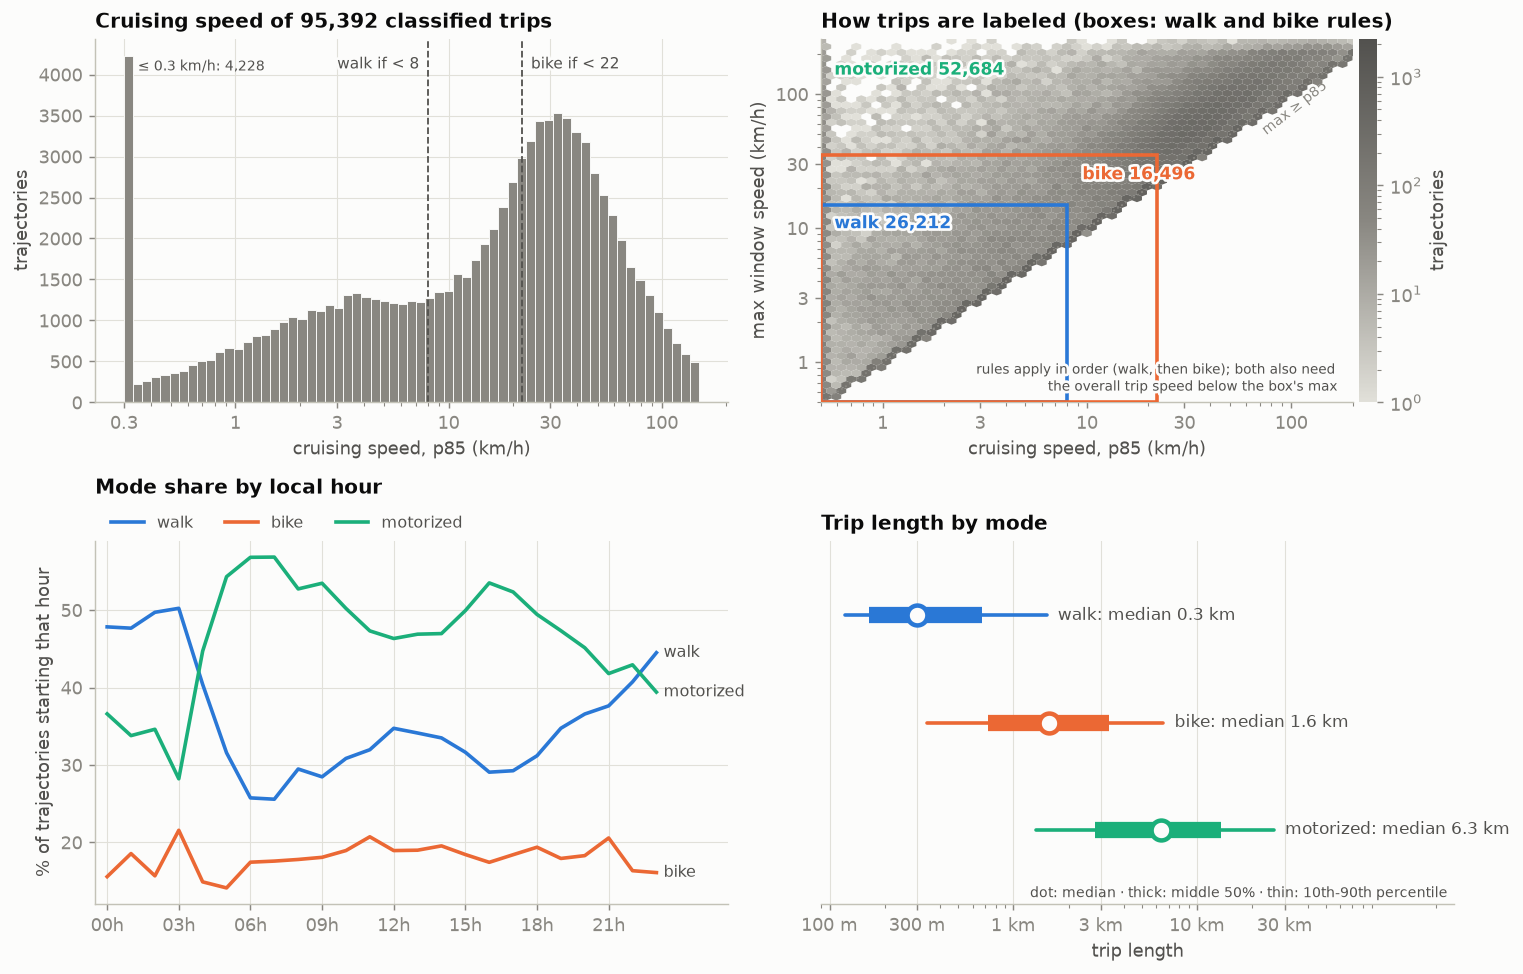
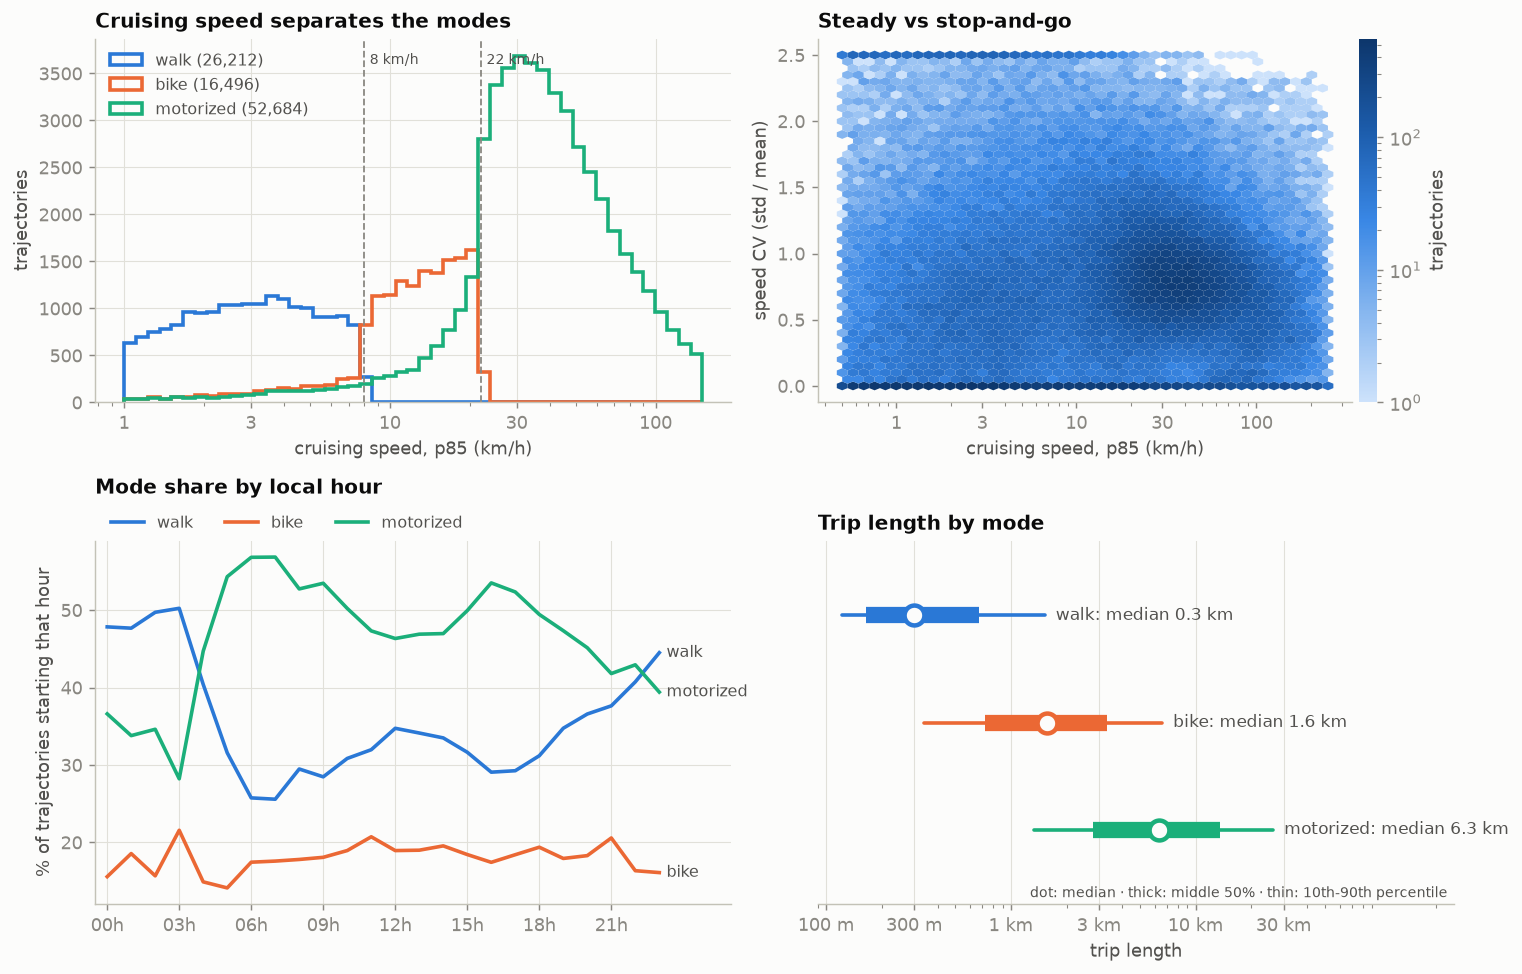
Dark trajectory maps for both themes, click-to-enlarge figures, earlier mode figure design

diff --git a/examples/make_figures.py b/examples/make_figures.py
@@ -210,63 +210,34 @@ MODES = ["walk", "bike", "motorized"]
 
 
 def fig_mode_features(tr, hw, t, out):
-    """Mode figure: cruising speed of all trips, the labeling rules in the p85 x max plane,
-    mode share by hour and trip length by mode."""
+    """Speed features by mode_guess: cruising speed, variability, hour of day, trip length."""
     cl = dict(zip(MODES, t["series"]))
     d = tr.filter(pl.col("mode_guess").is_in(MODES))
     fig, axes = plt.subplots(2, 2, figsize=(12, 7.6))
 
-    ticks = ([1, 3, 10, 30, 100], ["1", "3", "10", "30", "100"])
-
-    import matplotlib.patheffects as pe
-
-    # (a) cruising speed of every classified trip, one neutral series, thresholds marked
     ax = axes[0, 0]
-    bins = np.logspace(np.log10(0.3), np.log10(150), 64)
-    x = d["speed_p85_kmh"].clip(lower_bound=0.3).to_numpy()
-    ax.hist(x, bins=bins, color=t["muted"], edgecolor=t["surface"], linewidth=0.5)
-    top = ax.get_ylim()[1]
-    first = int((x <= bins[1]).sum())
-    ax.annotate(f"≤ 0.3 km/h: {first:,}", (0.31, first), xytext=(6, -2), textcoords="offset points",
-                fontsize=8, color=t["ink2"], va="top")
-    for thr, lab, side in [(8, "walk if < 8 ", "right"), (22, " bike if < 22", "left")]:
-        ax.axvline(thr, color=t["ink2"], lw=1, ls="--")
-        ax.text(thr * (0.95 if side == "right" else 1.05), top * 0.95, lab, color=t["ink2"], fontsize=8.5,
-                ha=side, va="top", path_effects=[pe.withStroke(linewidth=3, foreground=t["surface"])])
-    ax.set_xscale("log"), ax.set_xticks([0.3, 1, 3, 10, 30, 100], ["0.3", "1", "3", "10", "30", "100"])
+    bins = np.logspace(0, np.log10(150), 50)
+    for m in MODES:
+        x = d.filter(pl.col("mode_guess") == m)["speed_p85_kmh"].to_numpy()
+        ax.hist(x, bins=bins, histtype="step", lw=2, color=cl[m], label=f"{m} ({len(x):,})")
+    for thr, lab in [(8, "8 km/h"), (22, "22 km/h")]:
+        ax.axvline(thr, color=t["muted"], lw=1, ls="--")
+        ax.text(thr * 1.05, ax.get_ylim()[1] * 0.93, lab, color=t["ink2"], fontsize=8)
+    ax.set_xscale("log"), ax.set_xticks([1, 3, 10, 30, 100], ["1", "3", "10", "30", "100"])
     ax.set_xlabel("cruising speed, p85 (km/h)"), ax.set_ylabel("trajectories")
-    ax.set_title(f"Cruising speed of {len(x):,} classified trips")
+    ax.set_title("Cruising speed separates the modes"), ax.legend(loc="upper left", fontsize=9)
 
-    # (b) how trips are labeled: density in the p85 x max plane with the decision regions
     ax = axes[0, 1]
-    c = d.filter(pl.col("speed_max_kmh") > 0)
-    p85 = c["speed_p85_kmh"].clip(lower_bound=0.5).to_numpy()
-    vmax = c["speed_max_kmh"].clip(lower_bound=0.5).to_numpy()
-    # neutral density so the colored rule boxes stand out
-    gray = LinearSegmentedColormap.from_list("gray", [t["grid"], t["muted"], t["ink2"]])
-    hb = ax.hexbin(p85, vmax, xscale="log", yscale="log", gridsize=55, cmap=gray, norm=LogNorm(), mincnt=1,
-                   linewidths=0, zorder=1)
-    halo = [pe.withStroke(linewidth=3, foreground=t["surface"])]
-    from matplotlib.patches import Rectangle
-    for m, (xr, yr) in {"walk": (8, 15), "bike": (22, 35)}.items():
-        ax.add_patch(Rectangle((0.5, 0.5), xr - 0.5, yr - 0.5, fill=False, ec=cl[m], lw=2, zorder=3))
-    counts = d["mode_guess"].value_counts()
-    n = dict(zip(counts["mode_guess"], counts["count"]))
-    for txt, xy, m in [(f"walk {n.get('walk', 0):,}", (0.58, 12.5), "walk"),
-                       (f"bike {n.get('bike', 0):,}", (9.5, 29), "bike"),
-                       (f"motorized {n.get('motorized', 0):,}", (0.58, 175), "motorized")]:
-        ax.text(*xy, txt, color=cl[m], fontsize=9.5, fontweight="bold", va="top", zorder=5, path_effects=halo)
-    lo, hi = 0.5, 260
-    ax.plot([lo, hi], [lo, hi], color=t["muted"], lw=1, ls=":", zorder=2)
-    ax.text(70, 50, "max ≥ p85", color=t["muted"], fontsize=8, rotation=38, zorder=2)
-    ax.set_xlim(lo, 200), ax.set_ylim(lo, hi)
-    ax.set_xticks(*ticks), ax.set_yticks([1, 3, 10, 30, 100], ["1", "3", "10", "30", "100"]), ax.grid(False)
-    ax.set_xlabel("cruising speed, p85 (km/h)"), ax.set_ylabel("max window speed (km/h)")
-    ax.set_title("How trips are labeled (boxes: walk and bike rules)")
+    c = tr.filter(pl.col("speed_p85_kmh").is_not_null() & pl.col("speed_cv").is_not_null()
+                  & (pl.col("speed_p85_kmh") > 0.5))
+    cmap = LinearSegmentedColormap.from_list("seq", t["seq"])
+    hb = ax.hexbin(c["speed_p85_kmh"], c["speed_cv"].clip(upper_bound=2.5), xscale="log", gridsize=45, cmap=cmap,
+                   norm=LogNorm(), mincnt=1, linewidths=0)
+    ax.set_xticks([1, 3, 10, 30, 100], ["1", "3", "10", "30", "100"]), ax.grid(False)
+    ax.set_xlabel("cruising speed, p85 (km/h)"), ax.set_ylabel("speed CV (std / mean)")
+    ax.set_title("Steady vs stop-and-go")
     cb = fig.colorbar(hb, ax=ax, pad=0.01)
     cb.set_label("trajectories", color=t["ink2"]), cb.outline.set_visible(False)
-    ax.text(0.99, 0.02, "rules apply in order (walk, then bike); both also need\nthe overall trip speed below the box's max",
-            transform=ax.transAxes, ha="right", va="bottom", fontsize=7.5, color=t["ink2"], path_effects=halo)
 
     ax = axes[1, 0]
     tz = hw.select("uid", pl.col("stop_event").alias("origin_stop_event"), "inputed_timezone").unique(

diff --git a/examples/mexico_city_figures.py b/examples/mexico_city_figures.py
@@ -151,13 +151,13 @@ def fig_stays(stays, home, work, n, t, path):
 
 def fig_flows(flow, n, t, path):
     x0, x1, y0, y1 = extent()
-    # from the surface color up the sequential ramp (light: toward dark blue, dark: toward light blue)
-    cmap = LinearSegmentedColormap.from_list("flow", [t["surface"], *t["seq"]])
+    # dark surface -> deep blue -> bright blue -> white (most traveled)
+    cmap = LinearSegmentedColormap.from_list("flow", [t["surface"], "#104281", "#2a78d6", "#86b6ef", "#ffffff"])
     fig, ax = plt.subplots(figsize=(9, 9))
     m = np.ma.masked_where((flow < 1) | ~grid_mask(flow.shape), flow)
     ax.set_facecolor(t["surface"])
     ax.imshow(m, extent=(x0, x1, y0, y1), origin="lower", cmap=cmap,
-              norm=LogNorm(vmin=1, vmax=np.percentile(flow[flow > 0], 99.8)), interpolation="antialiased")
+              norm=LogNorm(vmin=1, vmax=np.percentile(flow[flow > 0], 99)), interpolation="antialiased")
     ax.set_xlim(x0, x1), ax.set_ylim(y0, y1)
     outline(ax, t, lw=0.8)
     ax.set_xticks([]), ax.set_yticks([]), ax.grid(False)
@@ -281,13 +281,13 @@ def fig_mode_maps(by_mode, n, t, path):
     fig.subplots_adjust(left=0.005, right=0.995, wspace=0.02, top=0.86, bottom=0.03)
     for ax, m, color in zip(axes, MODES, t["series"]):
         h = by_mode[m]
-        # surface -> the mode's hue -> a deeper (light theme) or paler (dark theme) shade of that hue
-        top = blend(color, t["ink"] if t is THEMES["light"] else "#ffffff", 0.35)
-        cmap = LinearSegmentedColormap.from_list(m, [t["surface"], color, top])
+        # dark surface -> deep hue -> hue -> pale hue -> white (most traveled)
+        cmap = LinearSegmentedColormap.from_list(
+            m, [t["surface"], blend(color, t["surface"], 0.55), color, blend(color, "#ffffff", 0.6), "#ffffff"])
         mm = np.ma.masked_where((h < 1) | ~grid_mask(h.shape), h)
         ax.set_facecolor(t["surface"])
         ax.imshow(mm, extent=(x0, x1, y0, y1), origin="lower", cmap=cmap, interpolation="antialiased",
-                  norm=LogNorm(vmin=1, vmax=max(np.percentile(h[h > 0], 99.7), 2)))
+                  norm=LogNorm(vmin=1, vmax=max(np.percentile(h[h > 0], 99), 2)))
         ax.set_xlim(x0, x1), ax.set_ylim(y0, y1)
         outline(ax, t, lw=0.8)
         ax.set_xticks([]), ax.set_yticks([]), ax.grid(False)
@@ -331,9 +331,12 @@ def main():
     for mode, t in THEMES.items():
         style(t)
         fig_stays(stays, home, work, n, t, f"{a.out}/cdmx_stays_{mode}.png")
-        fig_flows(flow, n, t, f"{a.out}/cdmx_flows_{mode}.png")
-        fig_mode_maps(by_mode, n, t, f"{a.out}/cdmx_mode_maps_{mode}.png")
         print("figures:", mode)
+    # trajectory maps: one dark rendering (white = most traveled), used in both site themes
+    style(THEMES["dark"])
+    fig_flows(flow, n, THEMES["dark"], f"{a.out}/cdmx_flows.png")
+    fig_mode_maps(by_mode, n, THEMES["dark"], f"{a.out}/cdmx_mode_maps.png")
+    print("figures: trajectory maps")
 
 
 if __name__ == "__main__":

diff --git a/docs/examples/example-data.md b/docs/examples/example-data.md
@@ -88,12 +88,11 @@ trips.group_by("mode_guess").agg(
 ![Speed features by mode](../assets/figures/mode_features_light.png#only-light)
 ![Speed features by mode](../assets/figures/mode_features_dark.png#only-dark)
 
-- **Cruising speed of all trips** (top left), one series with the walk and bike thresholds
-  marked: motorized-speed trips peak around 30 km/h.
-- **How trips are labeled** (top right): every trip by cruising speed (p85) and max speed. The
-  colored boxes are the walk and bike rules, applied in order, and the numbers are the trips
-  each class received. A trip with a walking-like p85 but a fast window lands outside the walk
-  box. Both boxes also require an overall trip speed below the box's max.
+- **Cruising speed (p85)** by mode (top left). The thresholds (8 and 22 km/h) are the baseline
+  rules; motorized trips peak around 30 km/h. The tails crossing the thresholds come from the
+  max-speed and overall-speed rules (a slow trip with a fast stretch is not a walk).
+- **Speed CV vs p85** (top right): most trips are stop-and-go (CV ~1). Steady fast trips (low CV,
+  high p85) are a distinct minority, mostly highways and rail.
 - **Mode share by local hour** (bottom left): motorized trips dominate the morning and evening
   peaks; slow movement dominates the night.
 - **Trip length by mode** (bottom right): median dot, middle 50% bar and 10th–90th percentile

diff --git a/docs/examples/mexico-city.md b/docs/examples/mexico-city.md
@@ -81,15 +81,13 @@ device in six with a home also has a work place.
 Every observed position of the 13.5M trajectories (78M points: pings and stay anchors), as a
 density raster. The street network appears from movement alone.
 
-![Trajectory density in Mexico City](../assets/figures/cdmx_flows_light.png#only-light){ width="640" }
-![Trajectory density in Mexico City](../assets/figures/cdmx_flows_dark.png#only-dark){ width="640" }
+![Trajectory density in Mexico City](../assets/figures/cdmx_flows.png){ width="640" }
 
 ### By mode
 
 The same, split by the baseline `mode_guess`:
 
-![Trajectories by mode in Mexico City](../assets/figures/cdmx_mode_maps_light.png#only-light)
-![Trajectories by mode in Mexico City](../assets/figures/cdmx_mode_maps_dark.png#only-dark)
+![Trajectories by mode in Mexico City](../assets/figures/cdmx_mode_maps.png)
 
 - **Motorized** trips trace the road hierarchy: Periférico, Circuito Interior, Calzada de
   Tlalpan, Viaducto.

diff --git a/docs/guide/speed-and-mode.md b/docs/guide/speed-and-mode.md
@@ -74,10 +74,8 @@ With \(W = \sum_i w_i\) over the valid windows:
     It is most useful together with p85. High p85 with high CV suggests a bus or city traffic;
     high p85 with low CV suggests a highway or metro.
 
-The figure shows the example data. Top left: cruising speed of every trip, with the
-thresholds marked. Top right: **how trips are labeled**, with every trip placed by p85 and max
-speed and the walk and bike rules drawn as boxes. Bottom: mode share by hour and trip length by
-mode (median, middle 50%, 10th–90th percentile).
+The figure shows the example data: cruising speed and speed variability by mode (top), mode
+share by hour and trip length by mode (bottom: median, middle 50%, 10th–90th percentile).
 
 ![Speed features by mode](../assets/figures/mode_features_light.png#only-light)
 ![Speed features by mode](../assets/figures/mode_features_dark.png#only-dark)

diff --git a/README.md b/README.md
@@ -25,10 +25,7 @@ once or day by day, on CPU or CUDA, and follows the logic of the gc-lbs BigQuery
 - **3.4 GB** peak RAM processing that month **day by day**.
 - **Identical tables** whether you process all at once or day by day, on CPU or GPU.
 
-<picture>
-  <source media="(prefers-color-scheme: dark)" srcset="docs/assets/figures/cdmx_flows_dark.png">
-  <img alt="Density of 21M trajectories in Mexico City" src="docs/assets/figures/cdmx_flows_light.png" width="520">
-</picture>
+<img alt="Density of 13.5M trajectories in Mexico City" src="docs/assets/figures/cdmx_flows.png" width="520">
 
 ## Install
 

diff --git a/docs/index.md b/docs/index.md
@@ -29,8 +29,7 @@ with the same results as the gc-lbs BigQuery pipeline.</p>
 <div class="pr-stat"><b>0</b><span>per-device Python loops: everything is column-wise Polars</span></div>
 </div>
 
-![Trajectory density of Mexico City](assets/figures/cdmx_flows_light.png#only-light){ width="420" align=right }
-![Trajectory density of Mexico City](assets/figures/cdmx_flows_dark.png#only-dark){ width="420" align=right }
+![Trajectory density of Mexico City](assets/figures/cdmx_flows.png){ width="420" align=right }
 
 ## What you get
 
